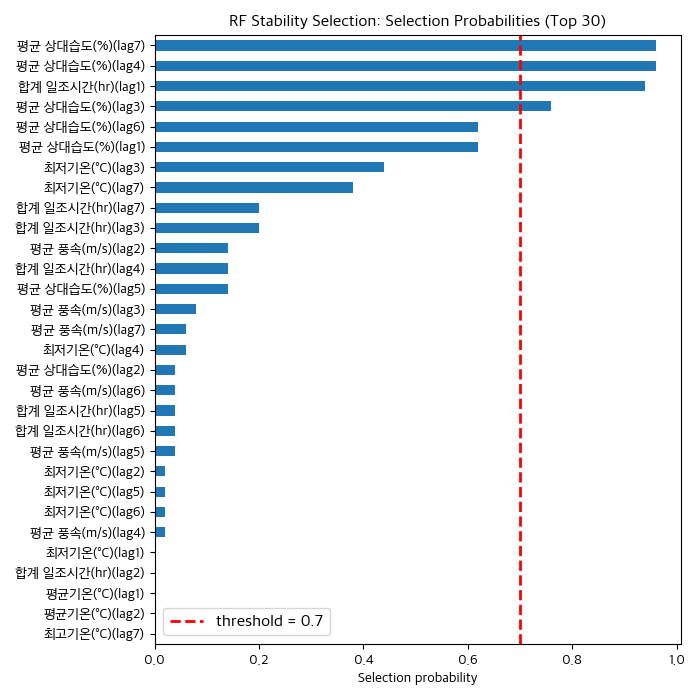
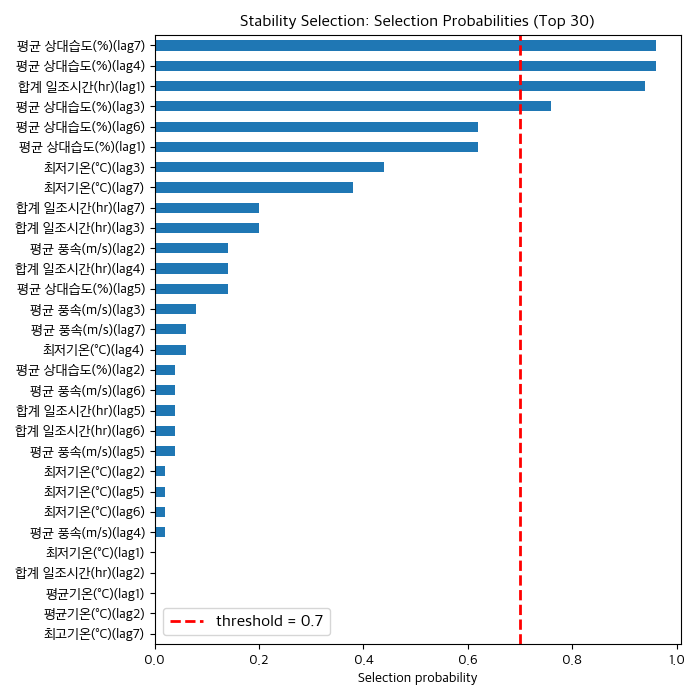
update

Changed region(s): [[0.33, 0.0, 0.87, 0.06]]

diff --git a/10_lasso_stabilityselection.py b/10_lasso_stabilityselection.py
@@ -70,7 +70,7 @@ ax.axvline(
     linewidth=2,
     label=f"threshold = {pi_thr}"
 )
-ax.set_title("RF Stability Selection: Selection Probabilities (Top 30)")
+ax.set_title("Stability Selection: Selection Probabilities (Top 30)")
 ax.set_xlabel("Selection probability")
 ax.legend(fontsize=12)
 plt.tight_layout()

diff --git a/11_randomforest_stabilityselection.py b/11_randomforest_stabilityselection.py
@@ -71,7 +71,7 @@ ax.axvline(
     linewidth=2,
     label=f"threshold = {pi_thr}"
 )
-ax.set_title("RF Stability Selection: Selection Probabilities (Top 30)")
+ax.set_title("Stability Selection: Selection Probabilities (Top 30)")
 ax.set_xlabel("Selection probability")
 ax.legend(fontsize=12)
 plt.tight_layout()
